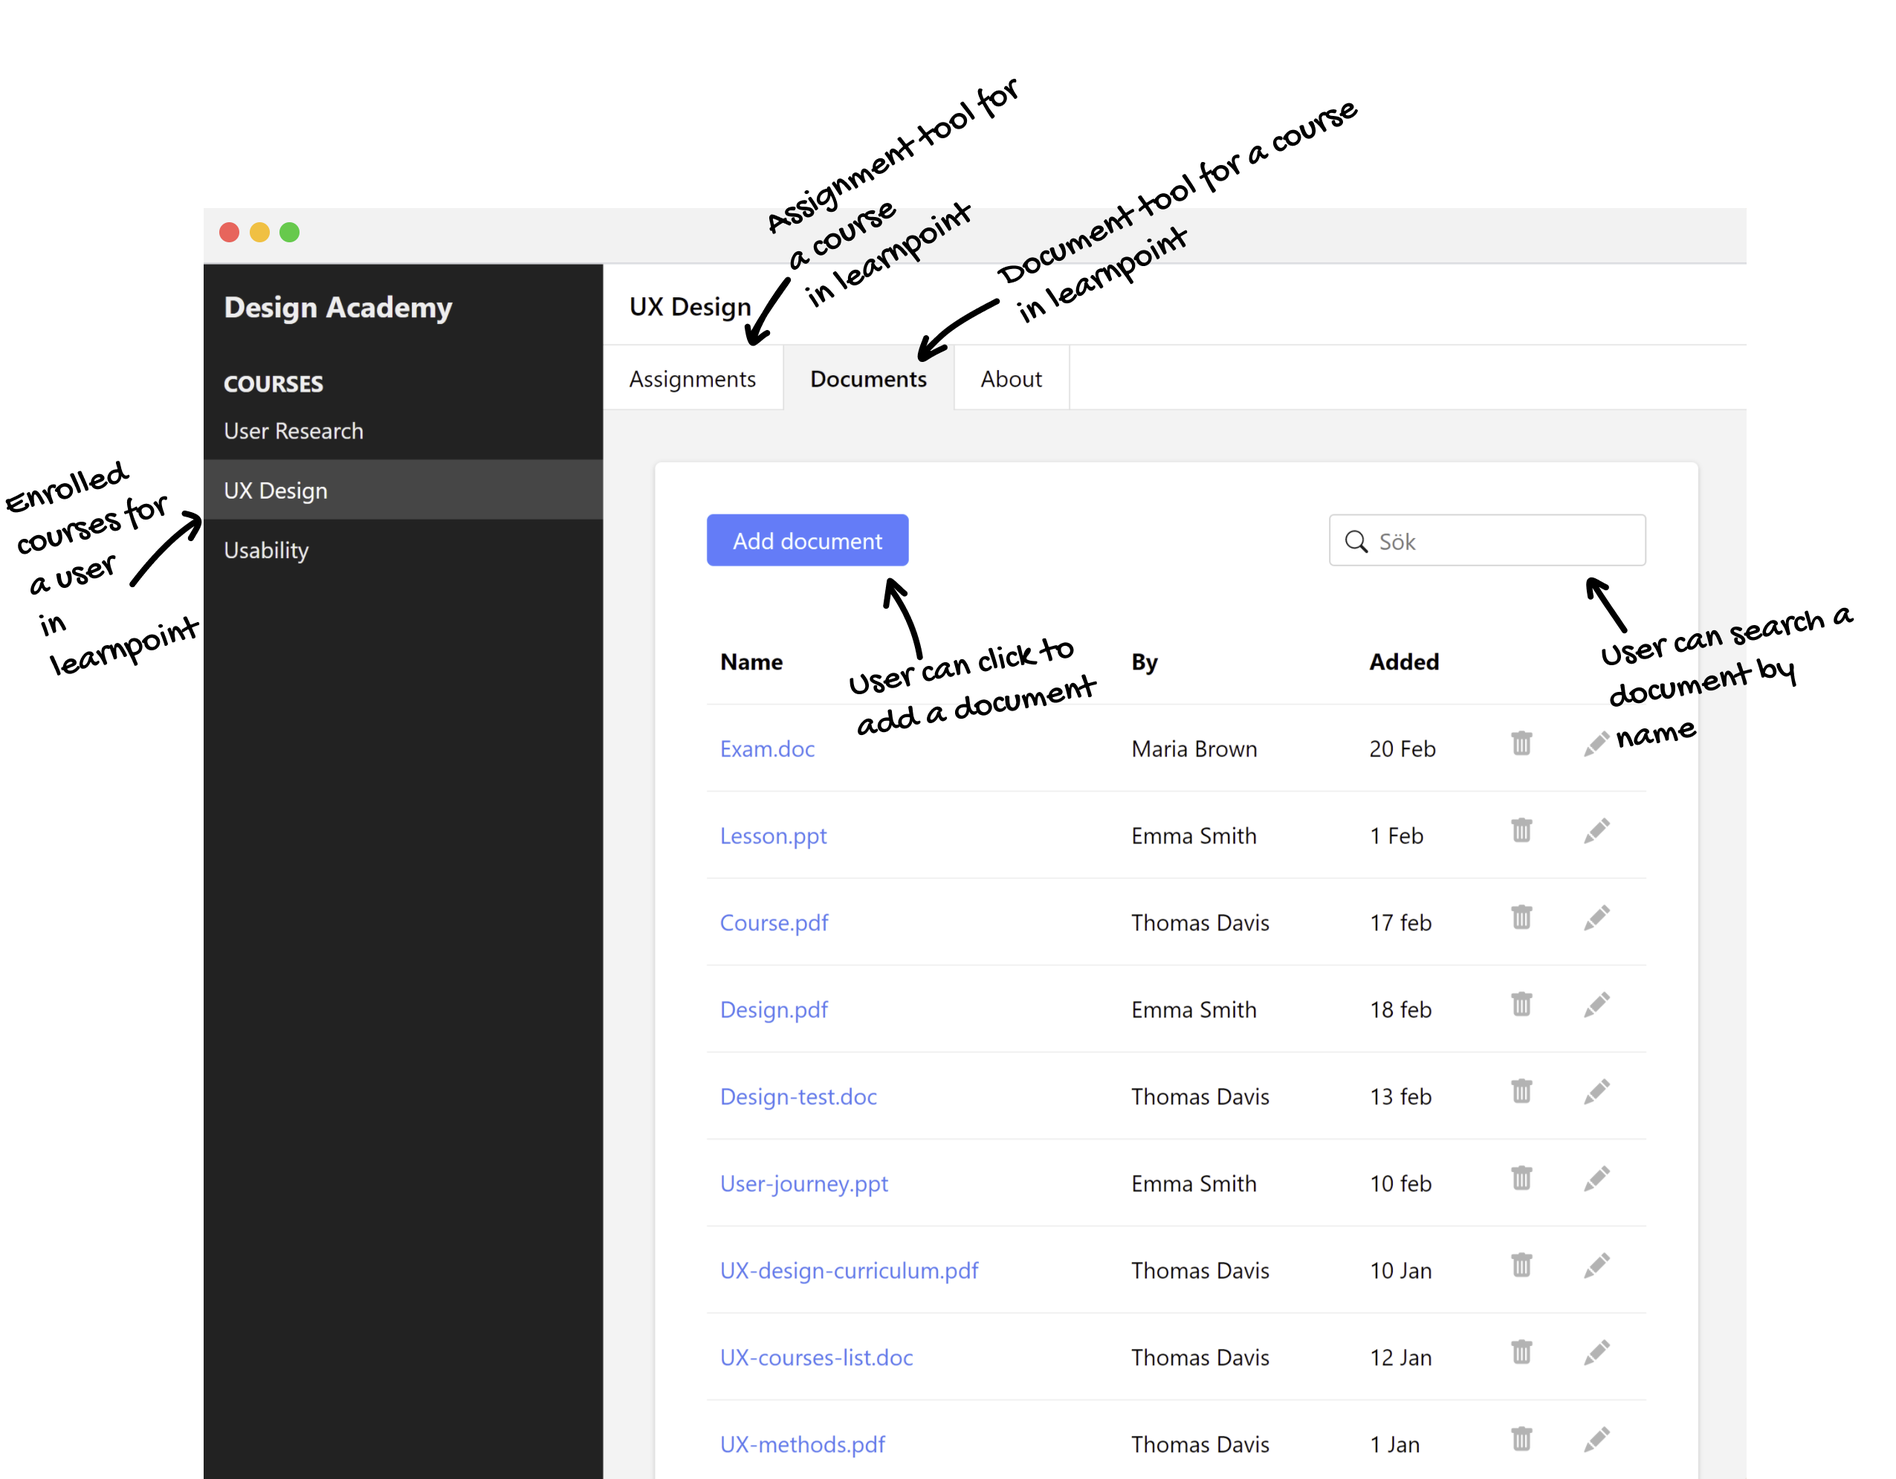
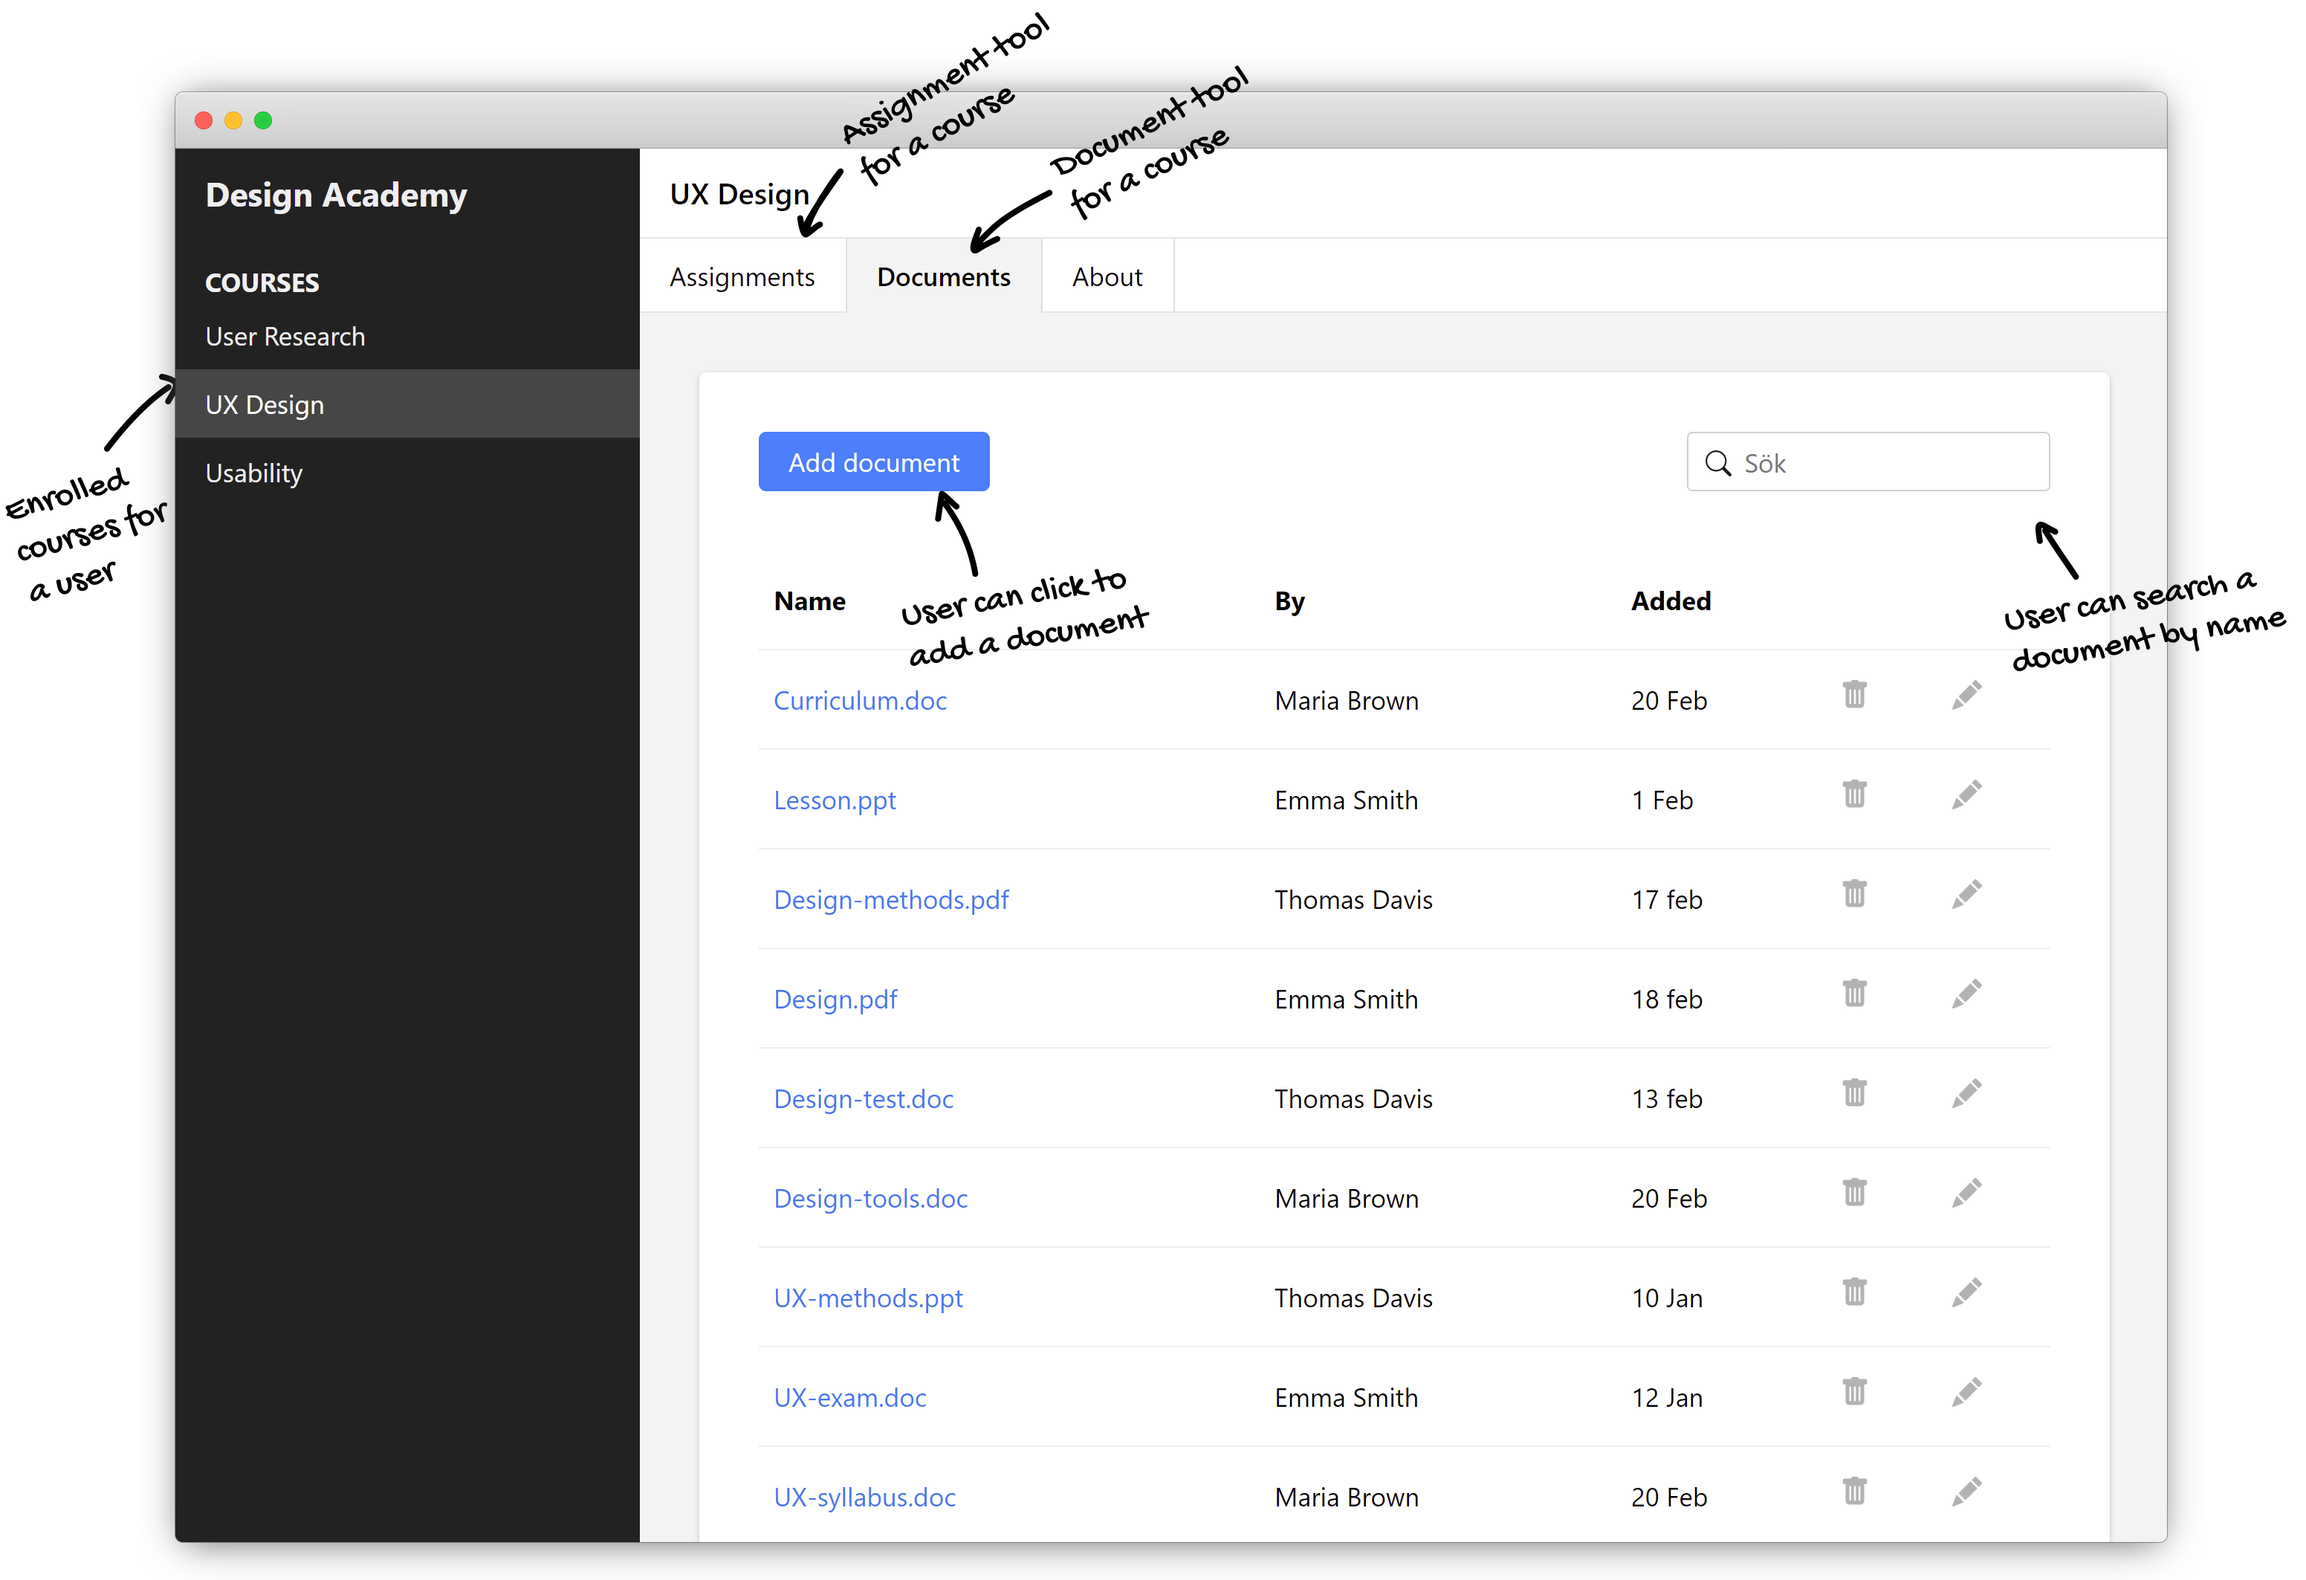
Added browser frame to illustration

diff --git a/docs/jobs/2021/02/design-challenge-code.html b/docs/jobs/2021/02/design-challenge-code.html
@@ -234,7 +234,7 @@
                         <th></th>
                     </tr>
                     <tr>
-                        <td><a>Exam.doc</a></td>
+                        <td><a>Curriculum.doc</a></td>
                         <td>Maria Brown</td>
                         <td>20 Feb</td>
                         <td><img alt="Delete"
@@ -257,7 +257,7 @@
                         </td>
                     </tr>
                     <tr>
-                        <td><a>Course.pdf</a></td>
+                        <td><a>Design-methods.pdf</a></td>
                         <td>Thomas Davis</td>
                         <td>17 feb</td>
                         <td><img alt="Delete"

diff --git a/src/jobs/2021/02/design-challenge-code.html b/src/jobs/2021/02/design-challenge-code.html
@@ -234,7 +234,7 @@
                         <th></th>
                     </tr>
                     <tr>
-                        <td><a>Exam.doc</a></td>
+                        <td><a>Curriculum.doc</a></td>
                         <td>Maria Brown</td>
                         <td>20 Feb</td>
                         <td><img alt="Delete"
@@ -257,7 +257,7 @@
                         </td>
                     </tr>
                     <tr>
-                        <td><a>Course.pdf</a></td>
+                        <td><a>Design-methods.pdf</a></td>
                         <td>Thomas Davis</td>
                         <td>17 feb</td>
                         <td><img alt="Delete"

diff --git a/docs/jobs/2021/02/design-challenge.html b/docs/jobs/2021/02/design-challenge.html
@@ -103,9 +103,9 @@
         <span lang="sv">Dokumentfunktionen i Learnpoint</span>
     </h2>
 
-    <div style="max-width: 960px;margin: 0 auto;position: relative;display: flex;">
-        <img src="design-challenge.png" style=" width: 80vw; position: relative;left: calc(-40vw + 50%);" alt="Documents tool illustration">
-    </div>
+   
+    <img src="design-challenge.png" style=" left: 50%; margin-left: -40vw; margin-right: -40vw; max-width: 80vw; position: relative; right: 50%; width: 100vw;" alt="Documents tool illustration">
+   
 
     <h2>
         <span lang="en">How to approach the challange</span>

diff --git a/src/jobs/2021/02/design-challenge.html b/src/jobs/2021/02/design-challenge.html
@@ -57,9 +57,9 @@
         <span lang="sv">Dokumentfunktionen i Learnpoint</span>
     </h2>
 
-    <div style="max-width: 960px;margin: 0 auto;position: relative;display: flex;">
-        <img src="design-challenge.png" style=" width: 80vw; position: relative;left: calc(-40vw + 50%);" alt="Documents tool illustration">
-    </div>
+   
+    <img src="design-challenge.png" style=" left: 50%; margin-left: -40vw; margin-right: -40vw; max-width: 80vw; position: relative; right: 50%; width: 100vw;" alt="Documents tool illustration">
+   
 
     <h2>
         <span lang="en">How to approach the challange</span>
